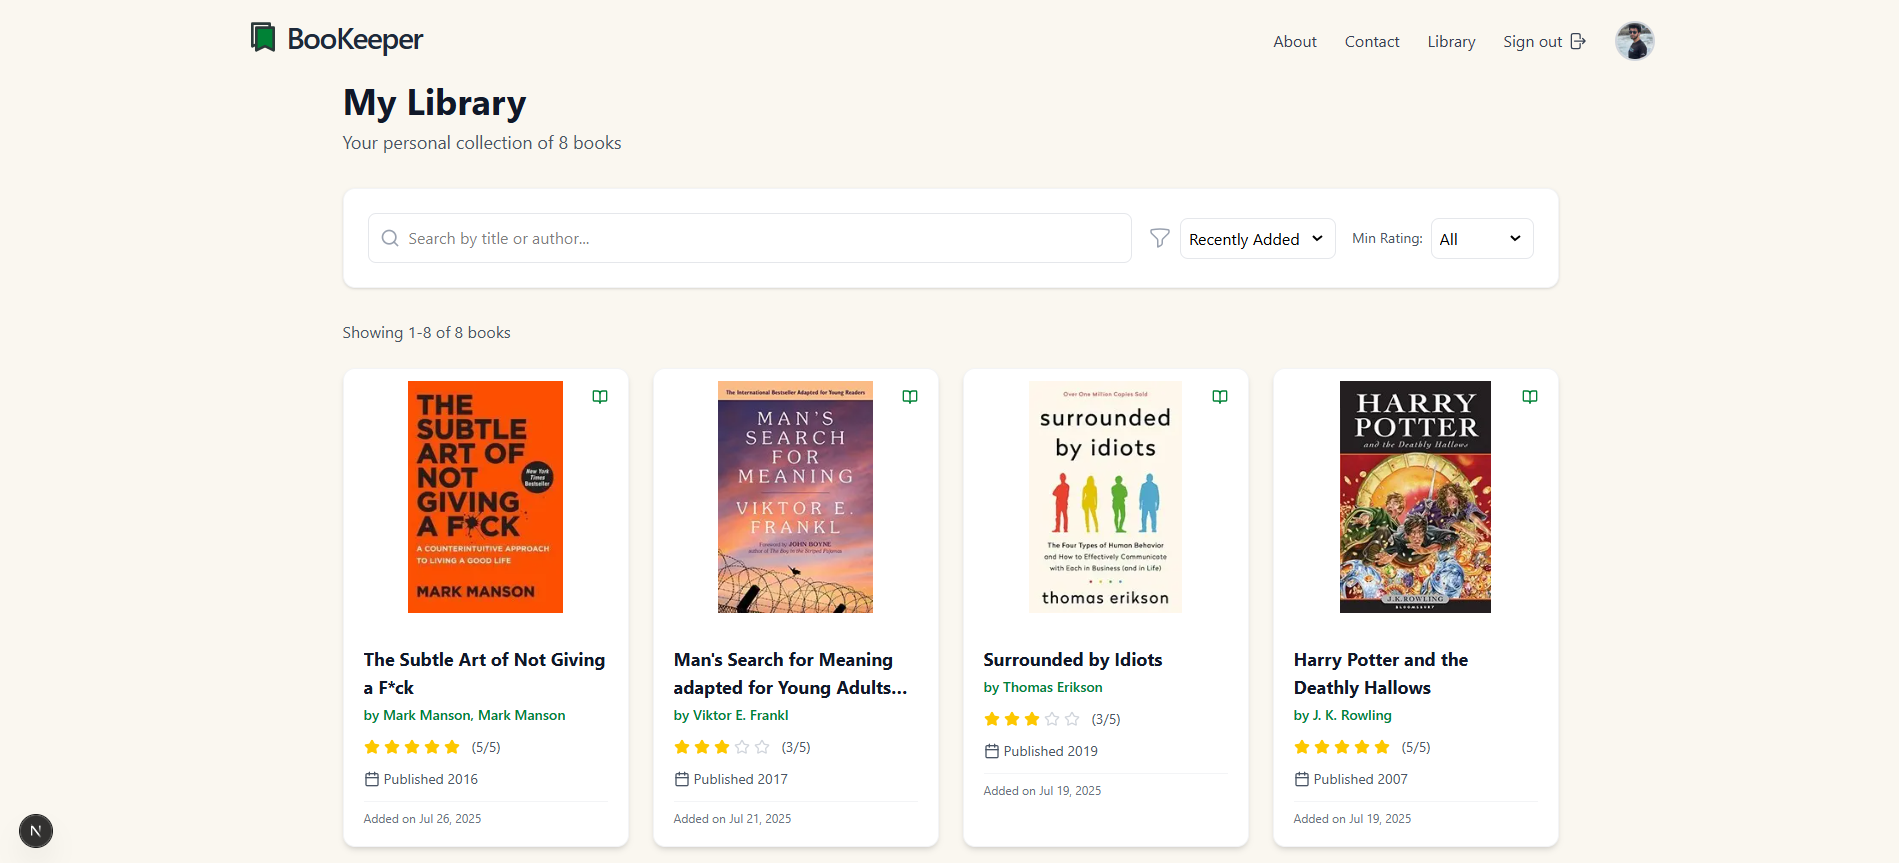
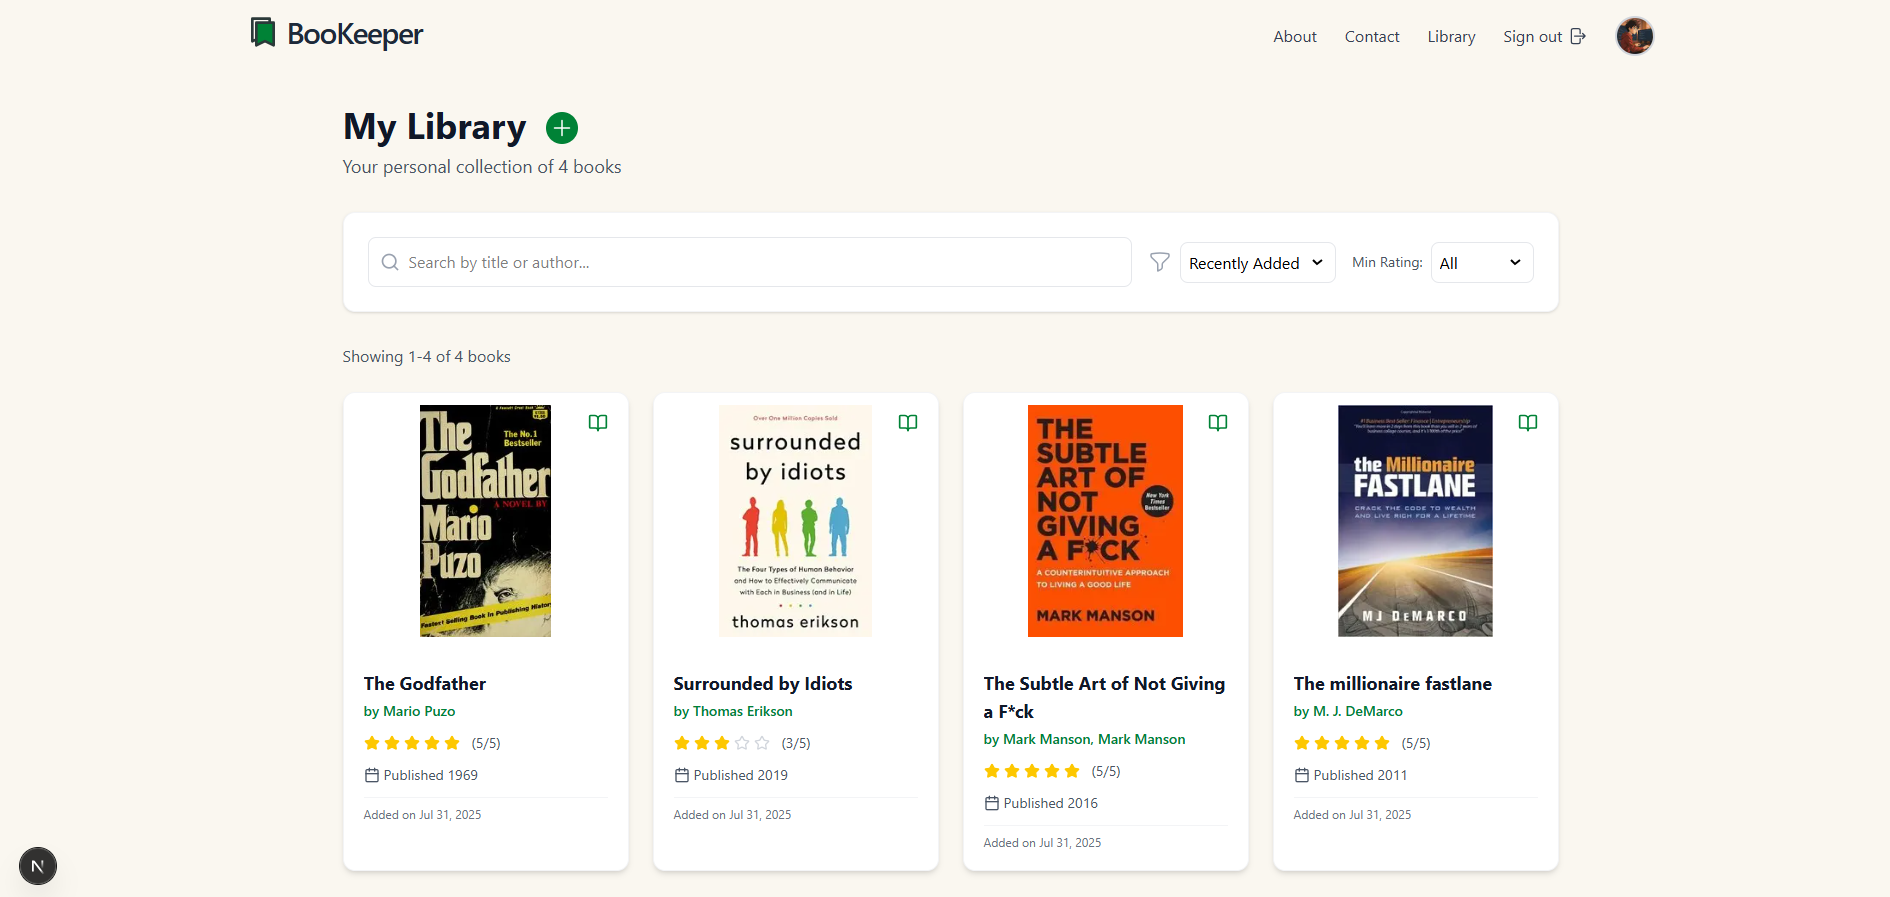
about page

diff --git a/src/app/(home)/about/page.tsx b/src/app/(home)/about/page.tsx
@@ -1,0 +1,173 @@
+import { Users, Target, Lightbulb, Heart } from "lucide-react";
+import { getServerSession } from "next-auth";
+import Image from "next/image";
+import Link from "next/link";
+
+const StepCard = ({
+  number,
+  title,
+  description,
+}: {
+  number: number;
+  title: string;
+  description: string;
+}) => (
+  <div className="relative">
+    <div className="flex items-start">
+      <div className="flex-shrink-0">
+        <div className="w-12 h-12 bg-green-700 text-white rounded-full flex items-center justify-center font-bold text-lg">
+          {number}
+        </div>
+      </div>
+      <div className="ml-6">
+        <h3 className="text-xl font-semibold text-gray-900 mb-2">{title}</h3>
+        <p className="text-gray-600 leading-relaxed">{description}</p>
+      </div>
+    </div>
+  </div>
+);
+
+const BenefitCard = ({
+  icon: Icon,
+  title,
+  description,
+}: {
+  icon: any;
+  title: string;
+  description: string;
+}) => (
+  <div className="text-center">
+    <div className="bg-green-50 w-16 h-16 rounded-full flex items-center justify-center mx-auto mb-4">
+      <Icon className="w-8 h-8 text-green-700" />
+    </div>
+    <h3 className="text-lg font-semibold text-gray-900 mb-2">{title}</h3>
+    <p className="text-gray-600">{description}</p>
+  </div>
+);
+
+export default async function About() {
+  const session = await getServerSession();
+  return (
+    <div className="min-h-screen" style={{ backgroundColor: "#faf7f0" }}>
+      {/* Header Section */}
+      <div className="relative overflow-hidden">
+        <div className="max-w-7xl mx-auto px-4 sm:px-6 lg:px-8 py-16 lg:py-24">
+          <div className="text-center">
+            <div className="flex justify-center mb-6">
+              <div className="flex justify-center items-center gap-1">
+                <Image
+                  src="/logo/logo_svg.svg"
+                  alt="Logo"
+                  width={50}
+                  height={50}
+                />
+                <span className="text-3xl font-semibold tracking-tighter text-gray-800">
+                  BooKeeper
+                </span>
+              </div>
+            </div>
+            <h1 className="text-4xl lg:text-6xl font-bold text-gray-900 mb-6">
+              Your Personal
+              <span className="text-green-700 block">Reading Companion</span>
+            </h1>
+            <p className="text-xl text-gray-600 max-w-3xl mx-auto leading-relaxed">
+              Transform the way you engage with books. Capture thoughts, track
+              your reading journey, and build a meaningful library of your
+              literary experiences.
+            </p>
+          </div>
+        </div>
+      </div>
+
+      {/* How It Works Section */}
+      <div className="bg-white py-16 lg:py-24">
+        <div className="max-w-7xl mx-auto px-4 sm:px-6 lg:px-8">
+          <div className="text-center mb-16">
+            <h2 className="text-3xl lg:text-4xl font-bold text-gray-900 mb-4">
+              How It Works
+            </h2>
+            <p className="text-xl text-gray-600 max-w-3xl mx-auto">
+              Getting started is simple. Follow these easy steps to begin your
+              organized reading journey.
+            </p>
+          </div>
+
+          <div className="grid grid-cols-1 lg:grid-cols-3 gap-12">
+            <StepCard
+              number={1}
+              title="Add Your Books"
+              description="After logging in, start by searching for your favorite book and selecting it — the app will automatically fill in details like the title, author, publication year, and cover image."
+            />
+            <StepCard
+              number={2}
+              title="Rate & Review"
+              description="Give each book a star rating and write detailed notes about your experience, favorite quotes, or key takeaways."
+            />
+            <StepCard
+              number={3}
+              title="Explore & Discover"
+              description="Browse your growing library, search for specific books, filter by ratings, and rediscover books that made an impact."
+            />
+          </div>
+        </div>
+      </div>
+
+      {/* Why choose us Section */}
+      <div className="py-16 lg:py-24" style={{ backgroundColor: "#faf7f0" }}>
+        <div className="max-w-7xl mx-auto px-4 sm:px-6 lg:px-8">
+          <div className="text-center mb-16">
+            <h2 className="text-3xl lg:text-4xl font-bold text-gray-900 mb-4">
+              Why Choose Our Platform?
+            </h2>
+            <p className="text-xl text-gray-600 max-w-3xl mx-auto">
+              Discover the benefits that make us the perfect companion for your
+              reading journey.
+            </p>
+          </div>
+
+          <div className="grid grid-cols-1 md:grid-cols-2 lg:grid-cols-4 gap-8">
+            <BenefitCard
+              icon={Heart}
+              title="Meaningful Engagement"
+              description="Transform passive reading into active reflection and deeper understanding."
+            />
+            <BenefitCard
+              icon={Target}
+              title="Stay Organized"
+              description="Keep all your reading experiences organized and easily accessible in one place."
+            />
+            <BenefitCard
+              icon={Lightbulb}
+              title="Capture Insights"
+              description="Never lose those brilliant thoughts and insights that come while reading."
+            />
+            <BenefitCard
+              icon={Users}
+              title="Personal Growth"
+              description="Track your reading evolution and see how your tastes and interests develop."
+            />
+          </div>
+        </div>
+      </div>
+
+      {/* CTA Section */}
+      <div className="bg-green-700 py-16 lg:py-24">
+        <div className="max-w-7xl mx-auto px-4 sm:px-6 lg:px-8 text-center">
+          <h2 className="text-3xl lg:text-4xl font-bold text-white mb-6">
+            Ready to Transform Your Reading Experience?
+          </h2>
+          <p className="text-xl text-green-100 max-w-3xl mx-auto mb-8">
+            Join the readers who have already discovered the joy of organized,
+            meaningful reading with our platform.
+          </p>
+          <Link
+            href={`${session ? "/my-books-page" : "/signup"}`}
+            className="bg-white text-green-700 px-8 py-4 rounded-lg font-semibold text-lg hover:bg-gray-50 transition-colors shadow-lg cursor-pointer"
+          >
+            Start Your Journey Today
+          </Link>
+        </div>
+      </div>
+    </div>
+  );
+}

diff --git a/src/components/Footer.tsx b/src/components/Footer.tsx
@@ -5,7 +5,7 @@ import Image from "next/image";
 const Footer = () => {
   return (
     <footer className="bg-[#faf7f0] text-sm text-gray-700 py-12 px-6 border-t-2 border-gray-200">
-      <div className="max-w-6xl mx-auto grid grid-cols-1 md:grid-cols-5 gap-10">
+      <div className="max-w-6xl mx-auto grid grid-cols-1 md:grid-cols-4 gap-10">
         <div className="md:col-span-1 space-y-2">
           <div className="flex items-center gap-2 font-semibold text-xl text-gray-900">
             <Image src="/logo/logo_svg.svg" alt="Logo" width={32} height={32} />
@@ -19,15 +19,8 @@ const Footer = () => {
 
         <div className="space-y-2 mt-2">
           <h4 className="font-semibold text-gray-900">About Us</h4>
-          <Link href="/pricing" className="text-gray-600 hover:underline">
-            Pricing
-          </Link>
-        </div>
-
-        <div className="space-y-2 mt-2">
-          <h4 className="font-semibold text-gray-900">Resources</h4>
-          <Link href="/blog" className="text-gray-600 hover:underline">
-            Blog
+          <Link href="/about" className="text-gray-600 hover:underline">
+            About
           </Link>
         </div>
 
@@ -46,6 +39,7 @@ const Footer = () => {
           <Link href="/privacy" className="text-gray-600 hover:underline">
             Privacy Policy
           </Link>
+          <br />
           <Link href="/terms" className="text-gray-600 hover:underline">
             Terms of Service
           </Link>

diff --git a/src/components/MyLibrary.tsx b/src/components/MyLibrary.tsx
@@ -7,6 +7,7 @@ import FilterSvg from "./icons/FilterSvg";
 import ArrowLeft from "./icons/ArrowLeft";
 import ArrowRight from "./icons/ArrowRight";
 import Link from "next/link";
+import AddIcon from "./icons/AddIcon";
 
 interface Book {
   rating: number;
@@ -257,7 +258,16 @@ export default function MyLibrary({ books }: MyLibraryProps) {
       <div className="max-w-7xl mx-auto px-4 sm:px-6 lg:px-8 py-8">
         {/* Header */}
         <div className="mb-8">
-          <h1 className="text-4xl font-bold text-gray-900 mb-2">My Library</h1>
+          <div className="flex gap-5 items-center">
+            <h1 className="text-4xl font-bold text-gray-900 mb-2">
+              My Library
+            </h1>
+            <Link href={"/add-book-page"}>
+              <button className="flex items-center p-1 bg-green-700 hover:bg-green-600 text-white rounded-full h-8 w-8">
+                <AddIcon />
+              </button>
+            </Link>
+          </div>
           <p className="text-gray-600 text-lg">
             Your personal collection of {books.length} book
             {books.length !== 1 ? "s" : ""}
